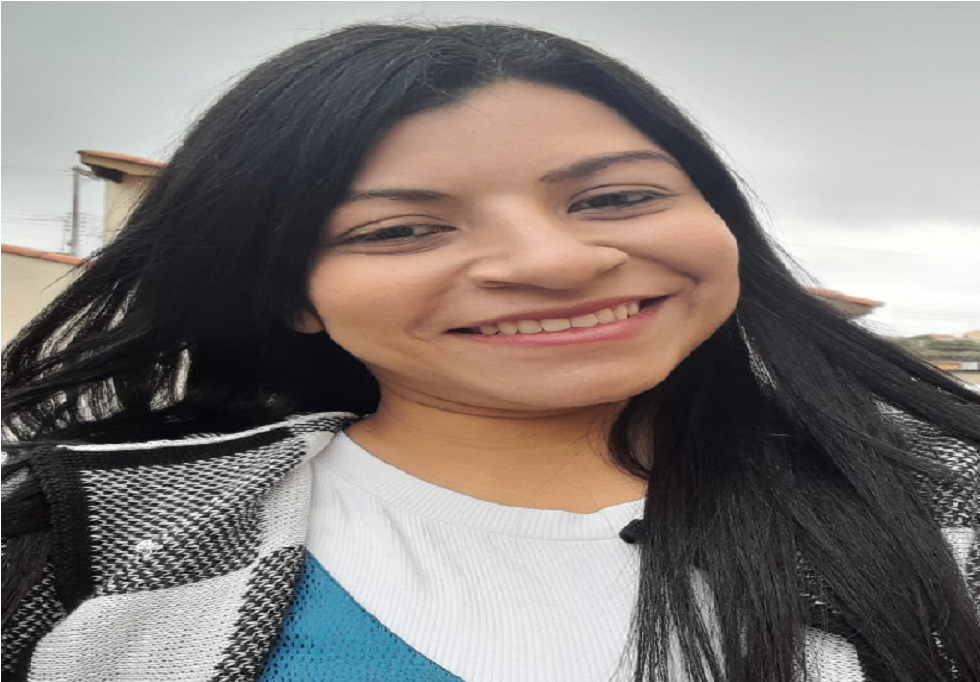
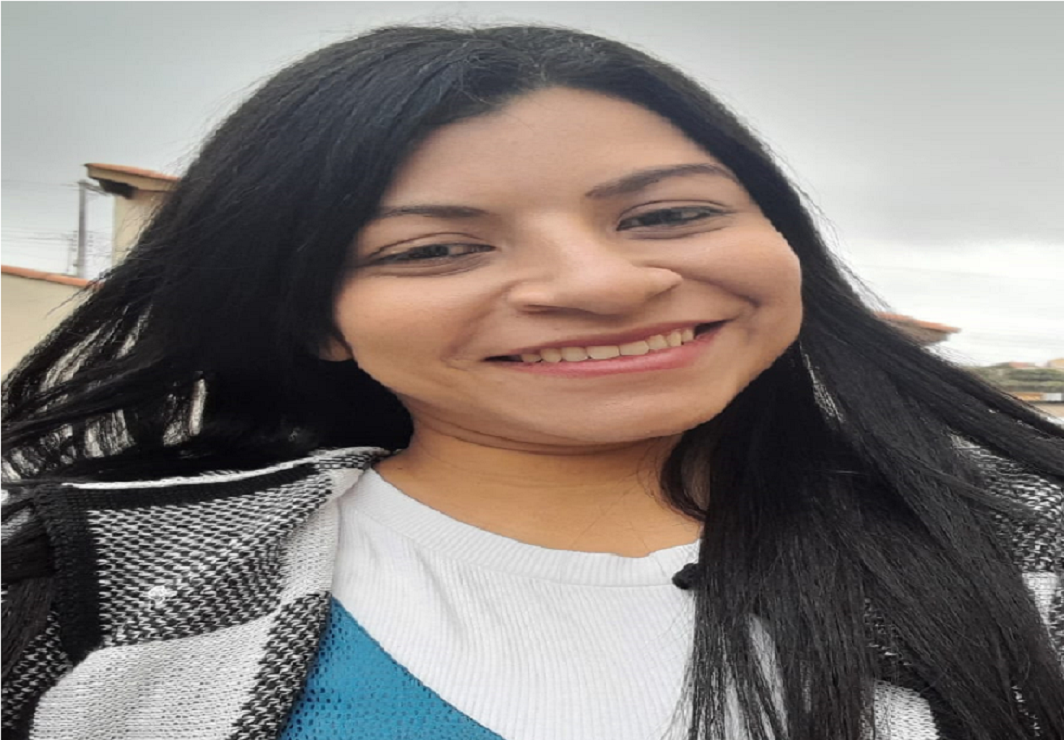
Mis cambios recientes en SobreNos y fotos

diff --git a/src/pages/SobreNos.jsx b/src/pages/SobreNos.jsx
@@ -39,7 +39,7 @@ export default function SobreNos() {
                         Objetivo acadêmico
                     </p>
                     <p className="textBox">
-                        Nosso principal objetivo é aplicar os conhecimentos de React que adquirimos, desde componentes reutilizáveis até o gerenciamento de estados e rotas. Também queremos praticar boas práticas de programação, trabalho em equipe e aprender a usar ferramentas modernas que fazem parte do dia a dia de um desenvolvedor Front-End.
+                        Nosso principal objetivo é aplicar os conhecimentos de React que adquirimos, desde o mais basico de HTML, CSS e JavaScript, até versionamennto no GitHub. Também queremos praticar boas práticas de programação, trabalho em equipe e aprender a usar ferramentas modernas que fazem parte do dia a dia de um desenvolvedor Front-End.
                     </p>
                 </div>
                 <div className="quadroBox">
